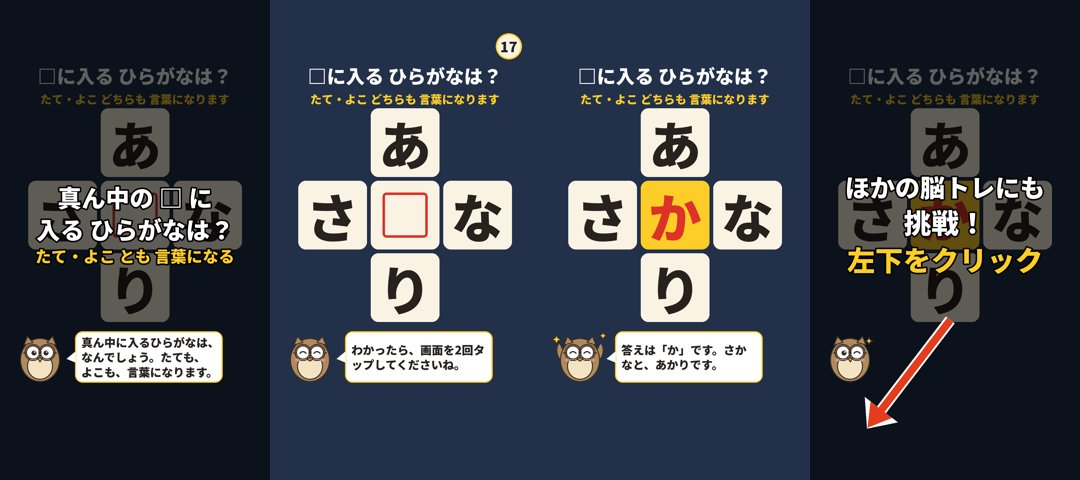
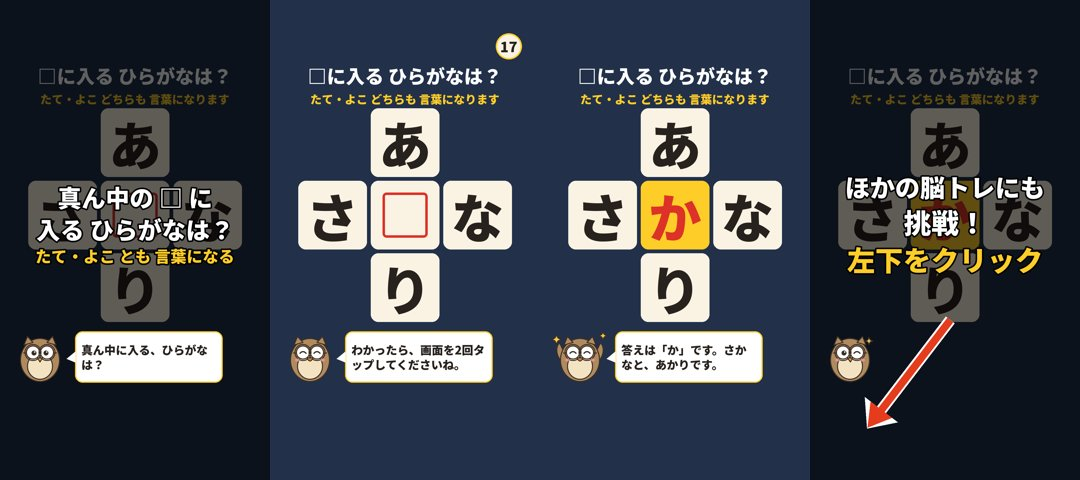
文字の脳トレ ショート3本：イントロを6秒未満に（声の説明を短く、補足は画面の文字）。再審査待ち
Claude-Session: https://claude.ai/code/session_01RF3BnfrPSRk1U21VXW6Yry

Changed region(s): [[0.0611, 0.6875, 0.2139, 0.8125]]

diff --git a/scripts/text_shorts.py b/scripts/text_shorts.py
@@ -151,14 +151,14 @@ def kanji_frame(state, remain=None):
 
 # ---------- 声（こよみ先生・ですます調）。字幕＝吹き出しの文、声＝ひらがなにした文 ----------
 LINES = {
-    "pref": {"intro": ("「は行」で始まる都道府県です。□に入る漢字は、わかりますか。",
-                       "はぎょうで、はじまる、とどうふけんです。しかくにはいるかんじは、わかりますか。"),
+    "pref": {"intro": ("「は行」の都道府県です。□に入る漢字は？",
+                       "はぎょうの、とどうふけんです。しかくにはいるかんじは？"),
              "ans": [("北海道です。", "ほっかいどうです。"), ("兵庫県です。", "ひょうごけんです。"), ("福井県です。", "ふくいけんです。")]},
-    "cross": {"intro": ("真ん中に入るひらがなは、なんでしょう。たても、よこも、言葉になります。",
-                        "まんなかにはいるひらがなは、なんでしょう。たても、よこも、ことばになります。"),
+    "cross": {"intro": ("真ん中に入る、ひらがなは？",
+                        "まんなかにはいる、ひらがなは？"),
               "ans": [("答えは「か」です。さかなと、あかりです。", "こたえは、かです。さかなと、あかりです。")]},
-    "kanji": {"intro": ("左と右で、違う漢字が2つあります。見つけられますか。",
-                        "ひだりとみぎで、ちがうかんじが、ふたつあります。みつけられますか。"),
+    "kanji": {"intro": ("違う漢字が、2つあります。",
+                        "ちがうかんじが、ふたつあります。"),
               "ans": [("3行目、お城の「城」が、区域の「域」に。", "さんぎょうめ、おしろの、しろが、くいきの、いきに。"), ("6行目、路地の「路」が、省略の「略」になっていました。", "ろくぎょうめ、ろじの、ろが、しょうりゃくの、りゃくに、なっていました。")]},
 }
 TAP = ("わかったら、画面を2回タップしてくださいね。", "わかったら、がめんを、にかいタップしてくださいね。")

diff --git a/outputs/prototypes/text_shorts_003/readings_check.md b/outputs/prototypes/text_shorts_003/readings_check.md
@@ -5,29 +5,29 @@
 ## pref
 | セリフ | 字幕 | 声に渡した文 | 確認 |
 |---|---|---|---|
-| intro（0.3秒） | 「は行」で始まる都道府県です。□に入る漢字は、わかりますか。 | はぎょうで、はじまる、とどうふけんです。しかくにはいるかんじは、わかりますか。 | OK |
-| tap（7.3秒） | わかったら、画面を2回タップしてくださいね。 | わかったら、がめんを、にかいタップしてくださいね。 | OK |
-| ans0（19.3秒） | 答えです。 | こたえです。 | OK |
-| ans1（20.8秒） | 北海道です。 | ほっかいどうです。 | OK |
-| ans2（23.3秒） | 兵庫県です。 | ひょうごけんです。 | OK |
-| ans3（25.8秒） | 福井県です。 | ふくいけんです。 | OK |
-| cta（29.3秒） | 左下をクリックして、ほかの脳トレにも挑戦してくださいね。 | ひだりしたをクリックして、ほかののうトレにも、ちょうせんしてくださいね。 | OK |
+| intro（0.3秒） | 「は行」の都道府県です。□に入る漢字は？ | はぎょうの、とどうふけんです。しかくにはいるかんじは？ | OK |
+| tap（5.2秒） | わかったら、画面を2回タップしてくださいね。 | わかったら、がめんを、にかいタップしてくださいね。 | OK |
+| ans0（17.2秒） | 答えです。 | こたえです。 | OK |
+| ans1（18.7秒） | 北海道です。 | ほっかいどうです。 | OK |
+| ans2（21.2秒） | 兵庫県です。 | ひょうごけんです。 | OK |
+| ans3（23.7秒） | 福井県です。 | ふくいけんです。 | OK |
+| cta（27.2秒） | 左下をクリックして、ほかの脳トレにも挑戦してくださいね。 | ひだりしたをクリックして、ほかののうトレにも、ちょうせんしてくださいね。 | OK |
 
 ## cross
 | セリフ | 字幕 | 声に渡した文 | 確認 |
 |---|---|---|---|
-| intro（0.3秒） | 真ん中に入るひらがなは、なんでしょう。たても、よこも、言葉になります。 | まんなかにはいるひらがなは、なんでしょう。たても、よこも、ことばになります。 | OK |
-| tap（7.3秒） | わかったら、画面を2回タップしてくださいね。 | わかったら、がめんを、にかいタップしてくださいね。 | OK |
-| ans0（24.3秒） | 答えです。 | こたえです。 | OK |
-| ans1（25.8秒） | 答えは「か」です。さかなと、あかりです。 | こたえは、かです。さかなと、あかりです。 | OK |
-| cta（31.1秒） | 左下をクリックして、ほかの脳トレにも挑戦してくださいね。 | ひだりしたをクリックして、ほかののうトレにも、ちょうせんしてくださいね。 | OK |
+| intro（0.3秒） | 真ん中に入る、ひらがなは？ | まんなかにはいる、ひらがなは？ | OK |
+| tap（4.3秒） | わかったら、画面を2回タップしてくださいね。 | わかったら、がめんを、にかいタップしてくださいね。 | OK |
+| ans0（21.3秒） | 答えです。 | こたえです。 | OK |
+| ans1（22.8秒） | 答えは「か」です。さかなと、あかりです。 | こたえは、かです。さかなと、あかりです。 | OK |
+| cta（28.1秒） | 左下をクリックして、ほかの脳トレにも挑戦してくださいね。 | ひだりしたをクリックして、ほかののうトレにも、ちょうせんしてくださいね。 | OK |
 
 ## kanji
 | セリフ | 字幕 | 声に渡した文 | 確認 |
 |---|---|---|---|
-| intro（0.3秒） | 左と右で、違う漢字が2つあります。見つけられますか。 | ひだりとみぎで、ちがうかんじが、ふたつあります。みつけられますか。 | OK |
-| tap（5.8秒） | わかったら、画面を2回タップしてくださいね。 | わかったら、がめんを、にかいタップしてくださいね。 | OK |
-| ans0（24.8秒） | 答えです。 | こたえです。 | OK |
-| ans1（26.3秒） | 3行目、お城の「城」が、区域の「域」に。 | さんぎょうめ、おしろの、しろが、くいきの、いきに。 | OK |
-| ans2（31.6秒） | 6行目、路地の「路」が、省略の「略」になっていました。 | ろくぎょうめ、ろじの、ろが、しょうりゃくの、りゃくに、なっていました。 | OK |
-| cta（38.5秒） | 左下をクリックして、ほかの脳トレにも挑戦してくださいね。 | ひだりしたをクリックして、ほかののうトレにも、ちょうせんしてくださいね。 | OK |
+| intro（0.3秒） | 違う漢字が、2つあります。 | ちがうかんじが、ふたつあります。 | OK |
+| tap（4.3秒） | わかったら、画面を2回タップしてくださいね。 | わかったら、がめんを、にかいタップしてくださいね。 | OK |
+| ans0（23.3秒） | 答えです。 | こたえです。 | OK |
+| ans1（24.8秒） | 3行目、お城の「城」が、区域の「域」に。 | さんぎょうめ、おしろの、しろが、くいきの、いきに。 | OK |
+| ans2（30.1秒） | 6行目、路地の「路」が、省略の「略」になっていました。 | ろくぎょうめ、ろじの、ろが、しょうりゃくの、りゃくに、なっていました。 | OK |
+| cta（37.0秒） | 左下をクリックして、ほかの脳トレにも挑戦してくださいね。 | ひだりしたをクリックして、ほかののうトレにも、ちょうせんしてくださいね。 | OK |
